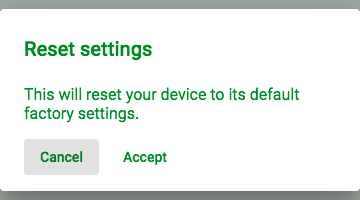
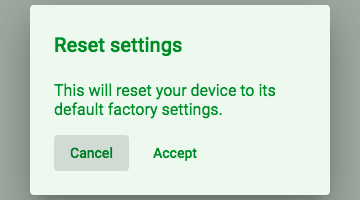
bg color and scale

Changed region(s): [[0.0, 0.0, 1.0, 0.99]]

diff --git a/scenes/src/styles.scss b/scenes/src/styles.scss
@@ -14,7 +14,8 @@ $background: map-get($theme, background);
 $background: map_merge($background, (
   background: $background-color,
   disabled-button: rgba(red, 0.5),
-  selected-button: rgba(red, 0.23)));
+  selected-button: rgba(red, 0.23),
+  dialog: $background-color));
 $theme: map_merge($theme, (background: $background));
 
 $secondary-text-color: map_get($mat-red, 600);

diff --git a/scenes/src/app/scenes/dialog/dialog-scene.ts b/scenes/src/app/scenes/dialog/dialog-scene.ts
@@ -13,7 +13,10 @@ export class DialogScene {
   }
 
   openDialog() {
-    this.dialog.open(DialogSceneExampleDialog);
+    this.dialog.open(DialogSceneExampleDialog, {
+      height: '190px',
+      width: '300px'
+    });
   }
 }
 
